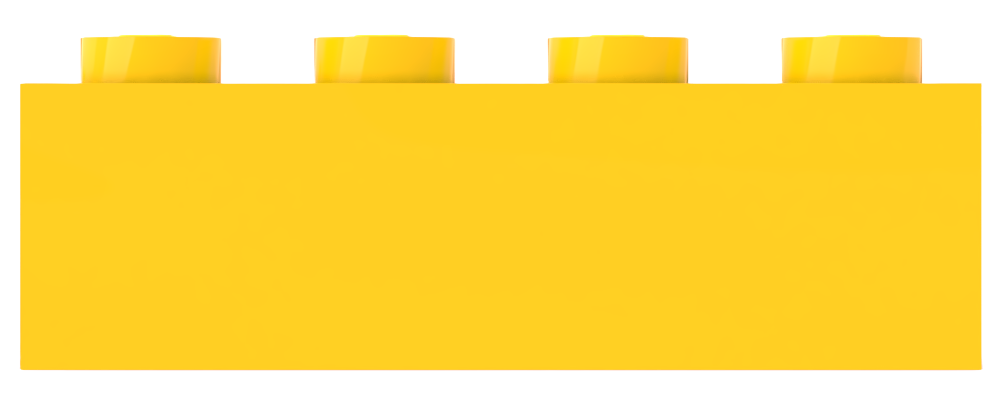
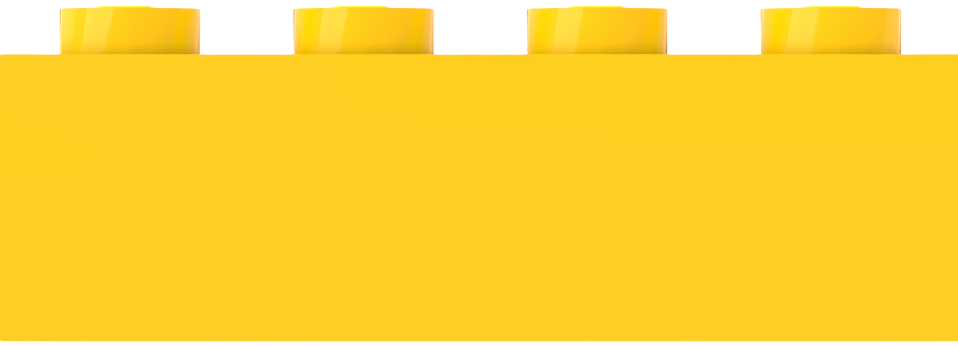
fix: correction erreurs lint et ajout de brique derriere les titres pour les rendre plus lisibles

Changed region(s): [[0.0, 0.0, 1.0, 1.0]]

diff --git a/client/src/app/pages/game-creation-page/game-creation-page.component.ts b/client/src/app/pages/game-creation-page/game-creation-page.component.ts
@@ -7,12 +7,12 @@ import { Game } from '@app/interfaces/game';
     selector: 'app--page',
     templateUrl: './game-creation-page.component.html',
     styleUrls: ['./game-creation-page.component.scss'],
-    imports: [RouterLink]
+    imports: [RouterLink],
 })
 export class GameCreationPageComponent {
     constructor(
         private communicationService: CommunicationService,
-        private router: Router
+        private router: Router,
     ) {}
 
     games: Game[] = this.getVisibleGames();
@@ -31,8 +31,8 @@ export class GameCreationPageComponent {
 
     createGameSession(): void {
         if (this.selectedGameId) {
-            this.communicationService.createGameSession(this.selectedGameId).subscribe((gameSession) => {
-                this.router.navigate(['/character-creation'])
+            this.communicationService.createGameSession(this.selectedGameId).subscribe(() => {
+                this.router.navigate(['/character-creation']);
             });
         }
     }

diff --git a/client/src/app/pages/game-creation-page/game-creation-page.component.scss b/client/src/app/pages/game-creation-page/game-creation-page.component.scss
@@ -12,6 +12,9 @@
     box-sizing: border-box;
     display: flex;
     flex-direction: column;
+    background-image: url('/assets/plate_background.jpg');
+    background-repeat: repeat;
+    background-size: contain;
 }
 
 .header {
@@ -20,18 +23,21 @@
 }
 
 .header-title {
-    font-size: 40px;
+    font-size: 35px;
     padding: 20px;
     margin: 0;
+    background-image: url('/assets/images/4x1_yellow.png');
+    background-size: contain;
 }
 
 .title {
     font-size: 30px;
     margin-top: 0.25rem;
     margin-bottom: 0.5rem;
-    padding: 0;
+    padding: 15px 10px;
+    background-image: url('/assets/images/3x1_orange.png');
+    background-size: contain;
 }
-
 
 .content {
     justify-content: center;

diff --git a/server/app/services/game-session/game-session.service.ts b/server/app/services/game-session/game-session.service.ts
@@ -9,12 +9,10 @@ export class GameSessionService {
     constructor(@InjectModel(GameSession.name) private gameSessionModel: Model<GameSession>) {}
     
     async create(createGameSessionDto: CreateGameSessionDto): Promise<GameSession> {
-        console.log('Received createGameSessionDto:', createGameSessionDto);
             const createdGameSession = new this.gameSessionModel({
                 gameId: createGameSessionDto.gameId,
                 players: [],
             });
-            console.log('Creating game session with data:', createdGameSession);
             return createdGameSession.save();
         }
 }

diff --git a/server/app/controllers/game-session/game-session.controller.ts b/server/app/controllers/game-session/game-session.controller.ts
@@ -1,7 +1,7 @@
 import { GameSession } from '@app/model/game-session';
 import { GameSessionService } from '@app/services/game-session/game-session.service';
 import { CreateGameSessionDto } from '@common/dto/create-game-session.dto';
-import { Body, Controller, Delete, Get, Param, Patch, Post, Put, ValidationPipe } from '@nestjs/common';
+import { Body, Controller, Post, ValidationPipe } from '@nestjs/common';
 import { ApiOperation, ApiResponse, ApiTags } from '@nestjs/swagger';
 
 @ApiTags('game-sessions')

diff --git a/server/app/app.module.ts b/server/app/app.module.ts
@@ -22,7 +22,7 @@ import { GameSessionModule } from './game-session.module';
         }),
         MongooseModule.forFeature([
             { name: Game.name, schema: gameSchema },
-        ]), GameSessionModule
+        ]), GameSessionModule,
     ],
     controllers: [GameController],
     providers: [ChatGateway, GameService, DateService, Logger, MapValidationService, GameMetadataValidationService],

diff --git a/server/app/game-session.module.ts b/server/app/game-session.module.ts
@@ -6,7 +6,7 @@ import { GameSessionController } from '@app/controllers/game-session/game-sessio
 
 @Module({
   imports: [
-    MongooseModule.forFeature([{ name: GameSession.name, schema: gameSessionSchema }])
+    MongooseModule.forFeature([{ name: GameSession.name, schema: gameSessionSchema }]),
   ],
   controllers: [GameSessionController],
   providers: [GameSessionService],

diff --git a/client/src/app/interfaces/game-session.ts b/client/src/app/interfaces/game-session.ts
@@ -1,4 +1,4 @@
-import { Character } from "./character-model";
+import { Character } from './character-model';
 
 export interface GameSession {
     gameId: string;
